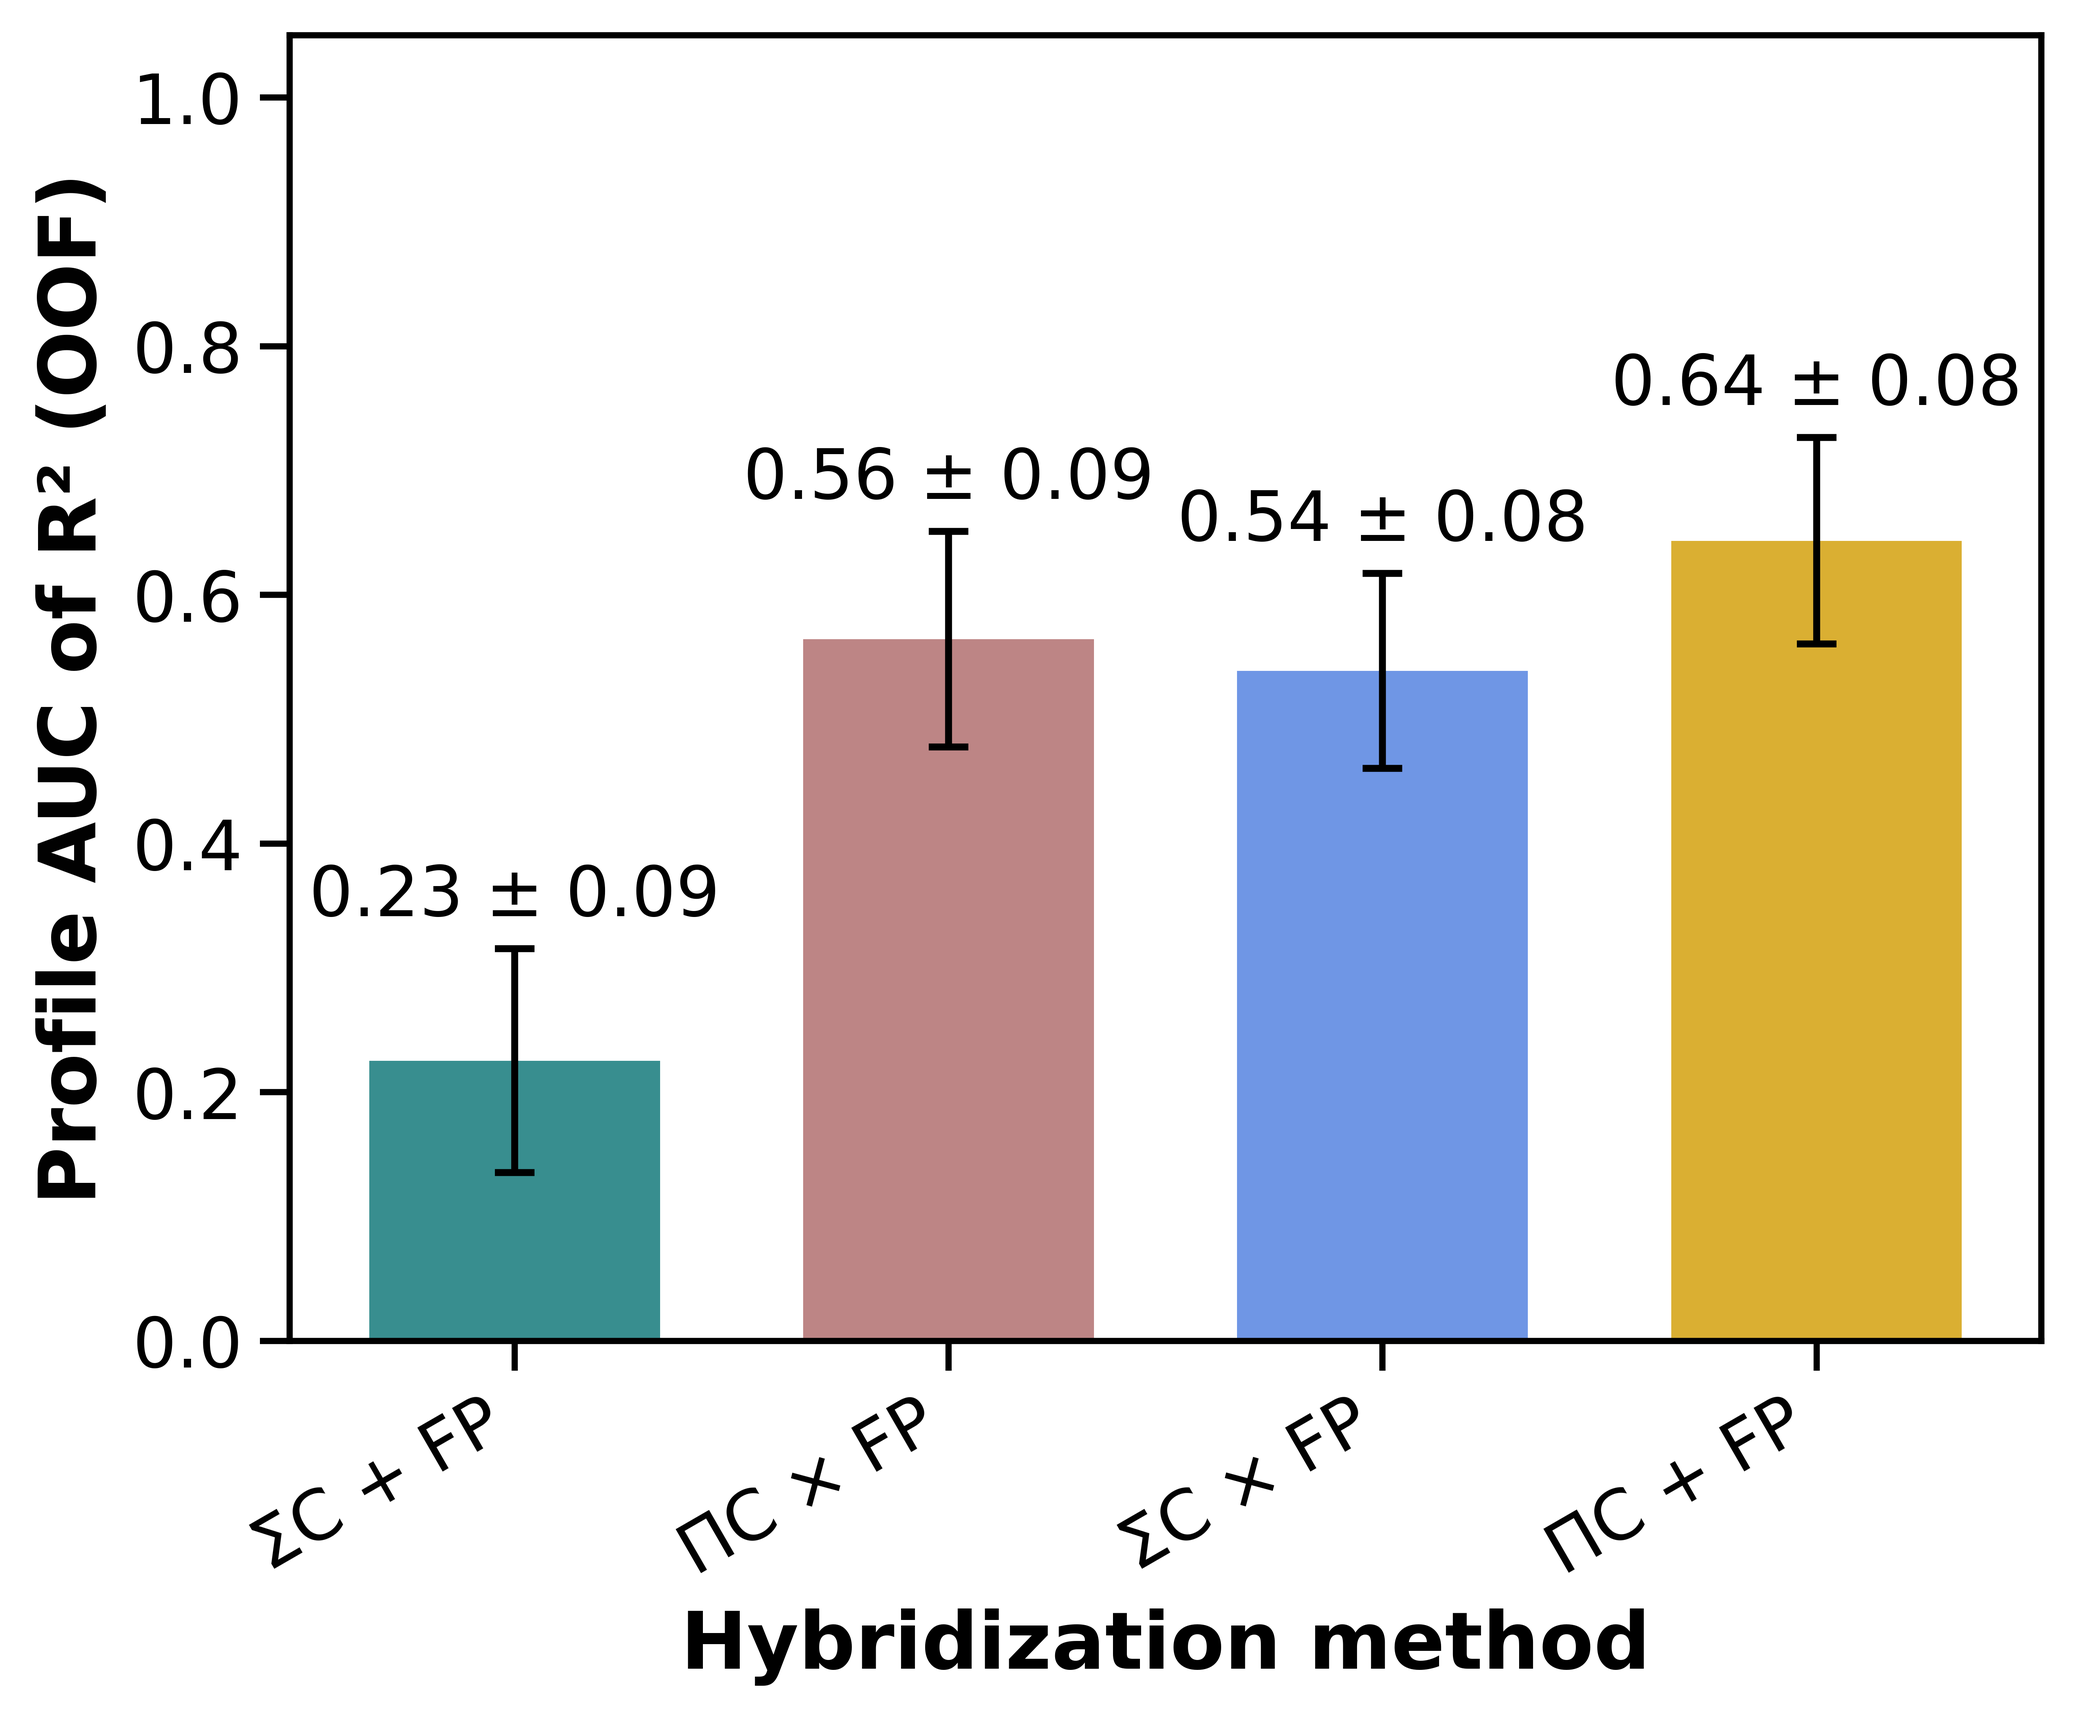
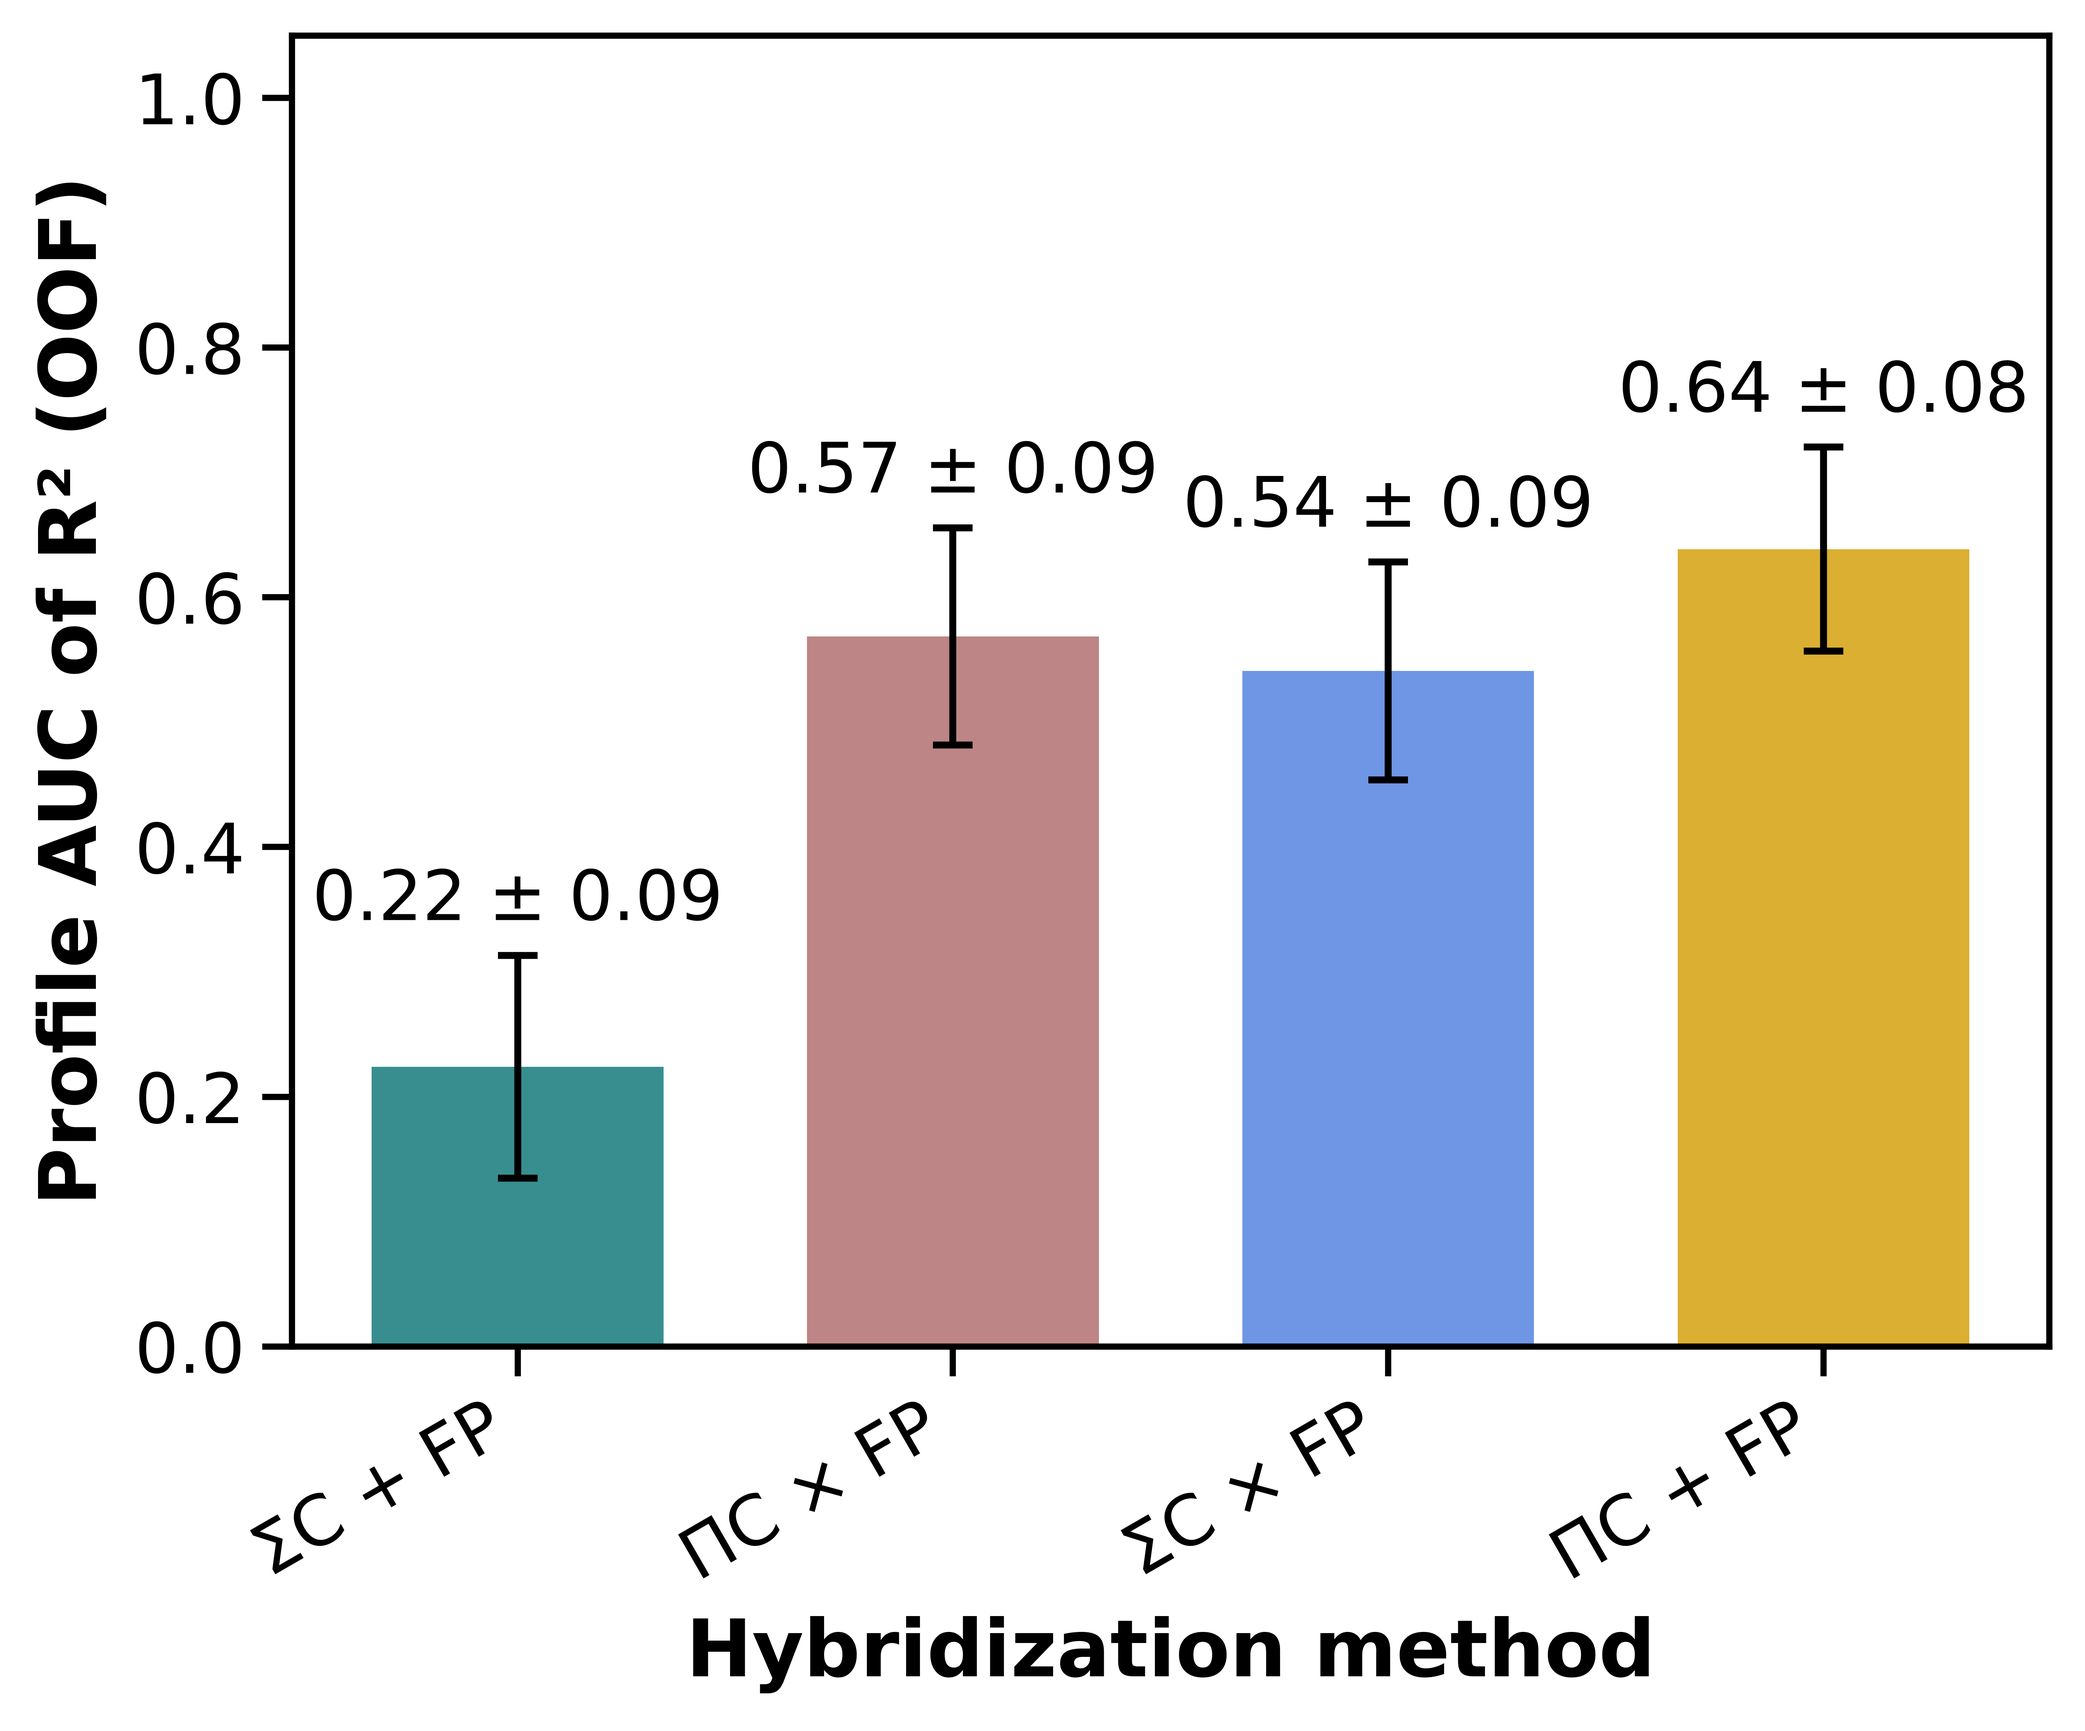
updated

diff --git a/code_python/visualization/visualize_gp.py b/code_python/visualization/visualize_gp.py
@@ -6107,7 +6107,7 @@ if __name__ == "__main__":
     #     mixing_methods=[
     #         "sum",
     #         "product",
-    #         "(count:+)x(fp:+)",
+    #         "(count:+)x(fp:x)",
     #         "(count:x)+(fp:x)",
     #     ],
     #     y_label="Profile AUC of R² (OOF)",
@@ -6118,24 +6118,24 @@ if __name__ == "__main__":
     # )
 
 
-    # plot_hybridization_profile_comparison(
-    #     df=result_df,
-    #     model="GPytorchMAP",
-    #     metric="OOF_R2",
-    #     fp_kernels=["TanimotoMatern32", "TanimotoMatern52", "TanimotoRBF"],
-    #     count_kernels=["RBF", "Matern32", "Matern52"],
-    #     mixing_methods=[
-    #         "sum",
-    #         "product",
-    #         "(count:+)x(fp:+)",
-    #         "(count:x)+(fp:x)",
-    #     ],
-    #     y_label="Profile AUC of R² (OOF)",
-    #     fontsize=16,
-    #     figsize=(6, 5),
-    #     save_dir=HERE / "result_analysis"/"performance_profile"/"hybridization_comparison",
-    #     file_name="R2OOF_GPytorchMAP_SK_hybridization_profile_comparison_avg_over_config.png",
-    # )
+    plot_hybridization_profile_comparison(
+        df=result_df,
+        model="GPytorchMAP",
+        metric="OOF_R2",
+        fp_kernels=["TanimotoMatern32", "TanimotoMatern52", "TanimotoRBF"],
+        count_kernels=["RBF", "Matern32", "Matern52"],
+        mixing_methods=[
+            "sum",
+            "product",
+            "(count:+)x(fp:x)",
+            "(count:x)+(fp:x)",
+        ],
+        y_label="Profile AUC of R² (OOF)",
+        fontsize=16,
+        figsize=(6, 5),
+        save_dir=HERE / "result_analysis"/"performance_profile"/"hybridization_comparison",
+        file_name="R2OOF_GPytorchMAP_SK_hybridization_profile_comparison_avg_over_config.png",
+    )
 
     # plot_hybridization_mean_std_comparison(
     #     df=result_df,
